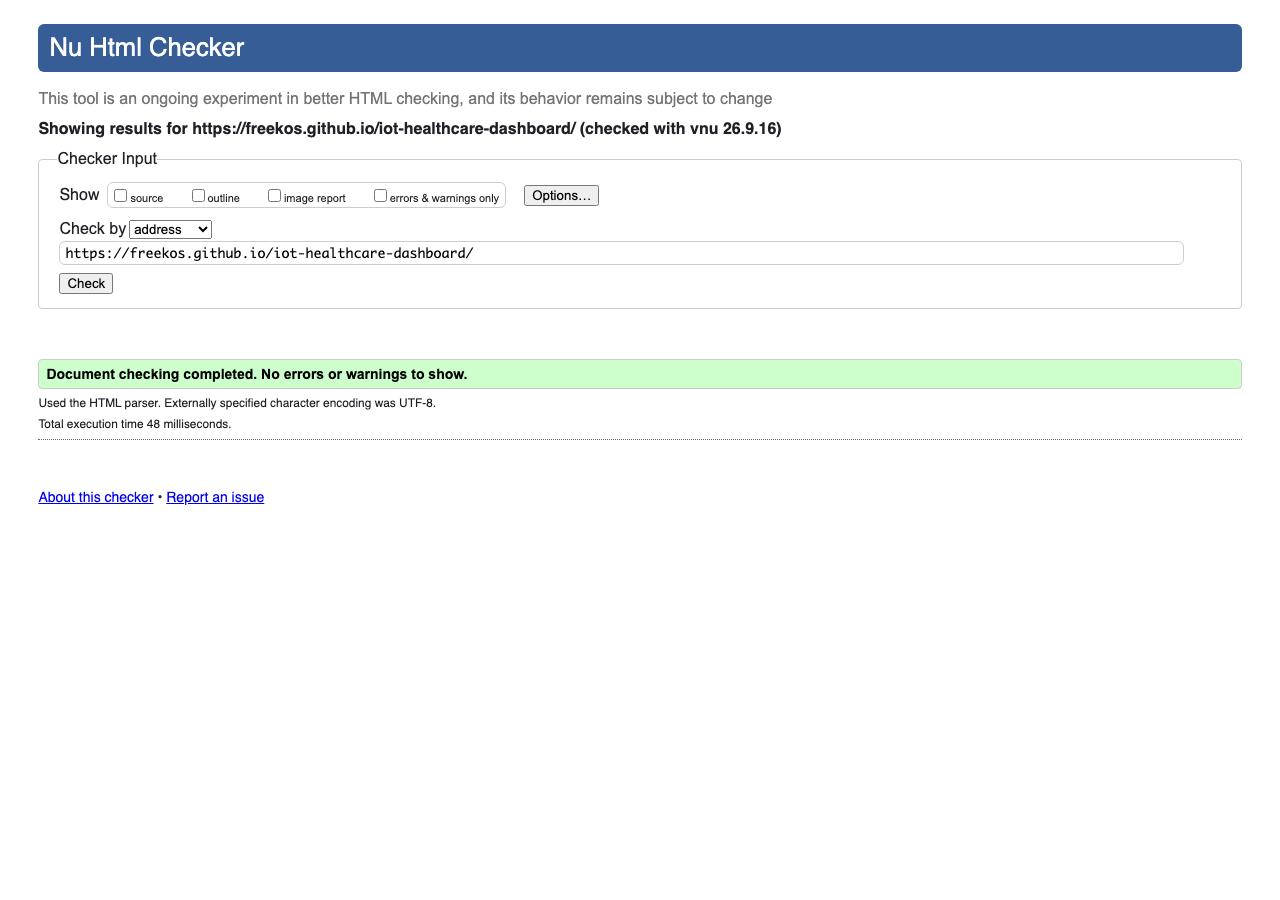
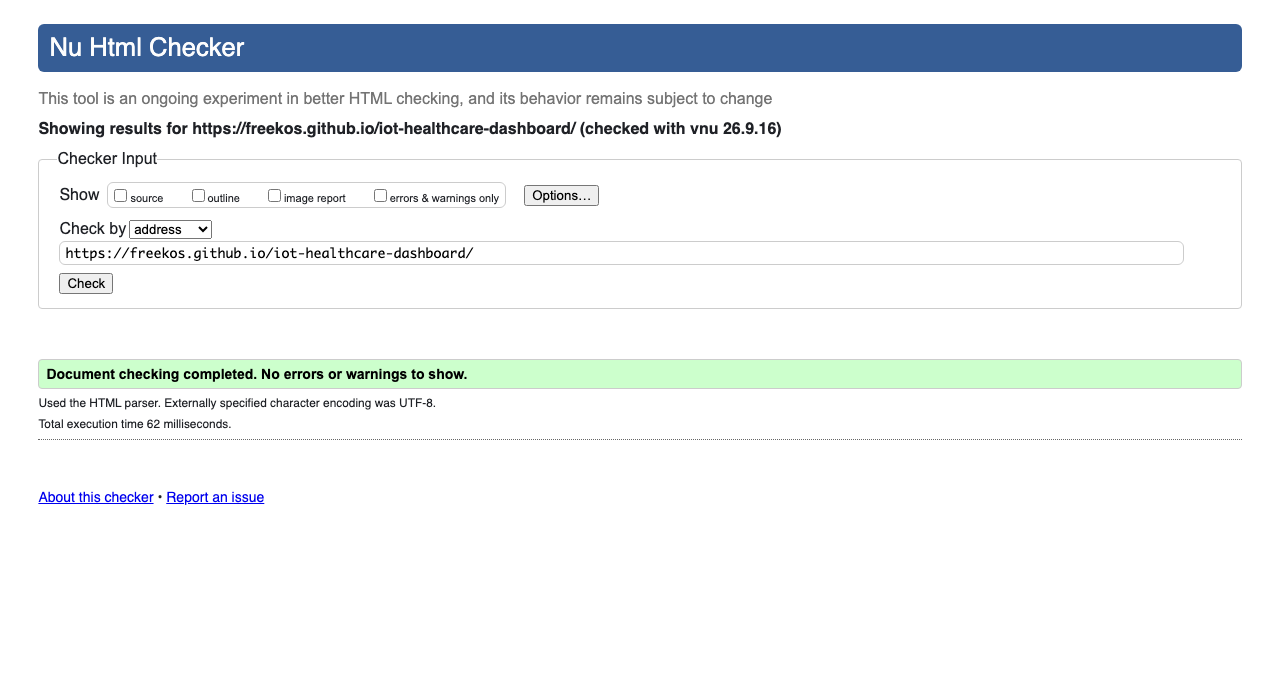
Update validation screenshots

Changed region(s): [[0.0312, 0.0, 0.9688, 0.48], [0.0312, 0.51, 0.9688, 0.63], [0.0312, 0.69, 0.2188, 0.72]]

diff --git a/seminar-2/style.css b/seminar-2/style.css
@@ -70,8 +70,8 @@ section {
   padding-top: 56px;
   background-color: var(--paper);
   background-image:
-    repeating-radial-gradient(ellipse 140% 90% at 85% 120%, transparent 0 26px, var(--line) 26px 27px),
-    repeating-radial-gradient(ellipse 90% 70% at 8% -20%, transparent 0 22px, var(--line) 22px 23px);
+    repeating-radial-gradient(circle at 88% 115%, transparent 0 30px, rgba(16, 25, 43, 0.13) 30px 32px),
+    repeating-radial-gradient(circle at 6% -30%, transparent 0 34px, rgba(16, 25, 43, 0.05) 34px 36px);
 }
 
 .header-inner {
@@ -632,9 +632,13 @@ td a {
 }
 
 .plan-form fieldset {
-  margin: 0;
+  margin: 16px 0 0;
   padding: 0;
   border: none;
+}
+
+.plan-form legend {
+  margin-top: 0;
 }
 
 .chips {
@@ -718,7 +722,7 @@ td a {
 .site-footer {
   background-color: var(--ink);
   background-image:
-    repeating-radial-gradient(ellipse 120% 100% at 90% 130%, transparent 0 26px, rgba(243, 239, 230, 0.08) 26px 27px);
+    repeating-radial-gradient(circle at 92% 140%, transparent 0 30px, rgba(243, 239, 230, 0.1) 30px 32px);
   color: rgba(243, 239, 230, 0.75);
   padding: 56px 0 36px;
 }
